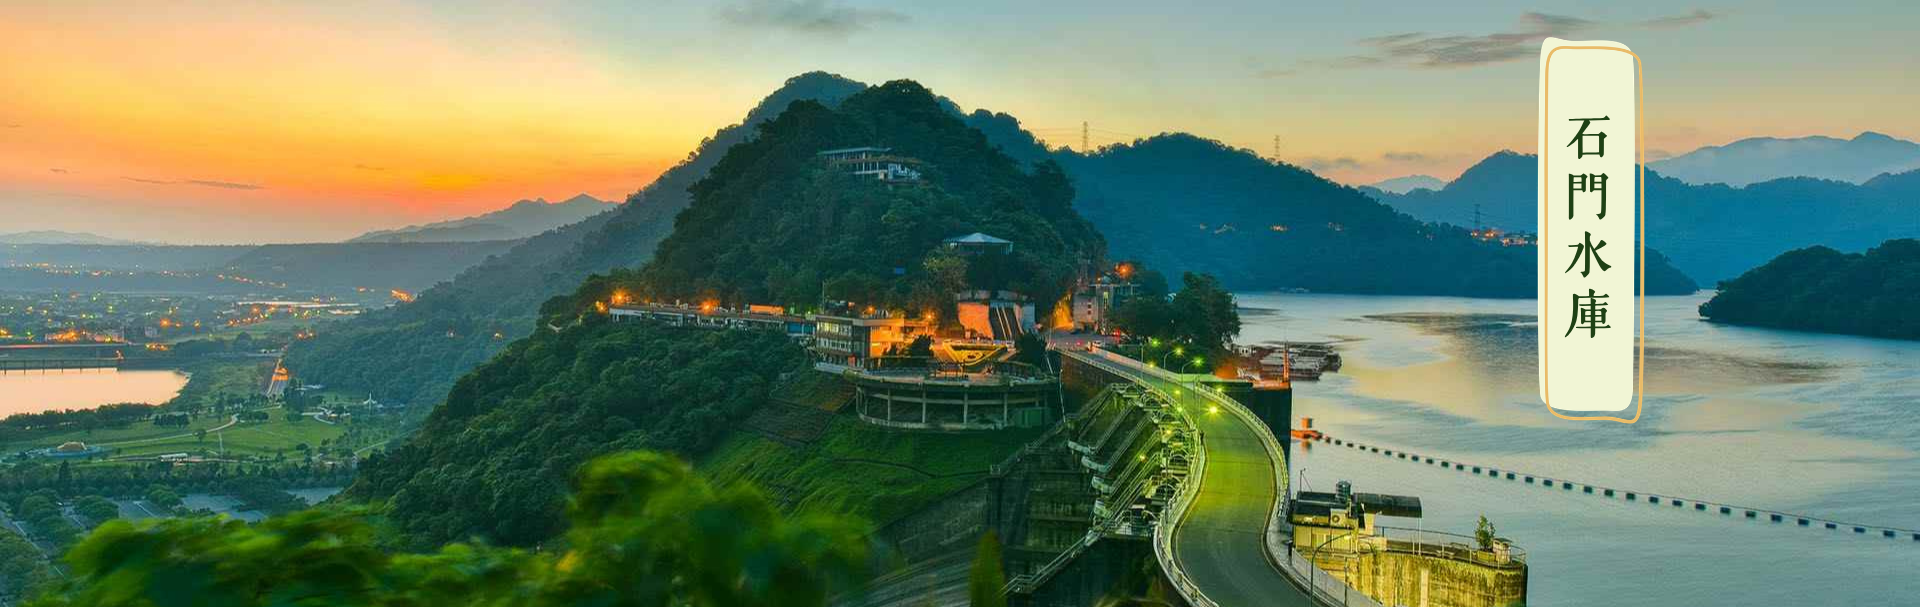
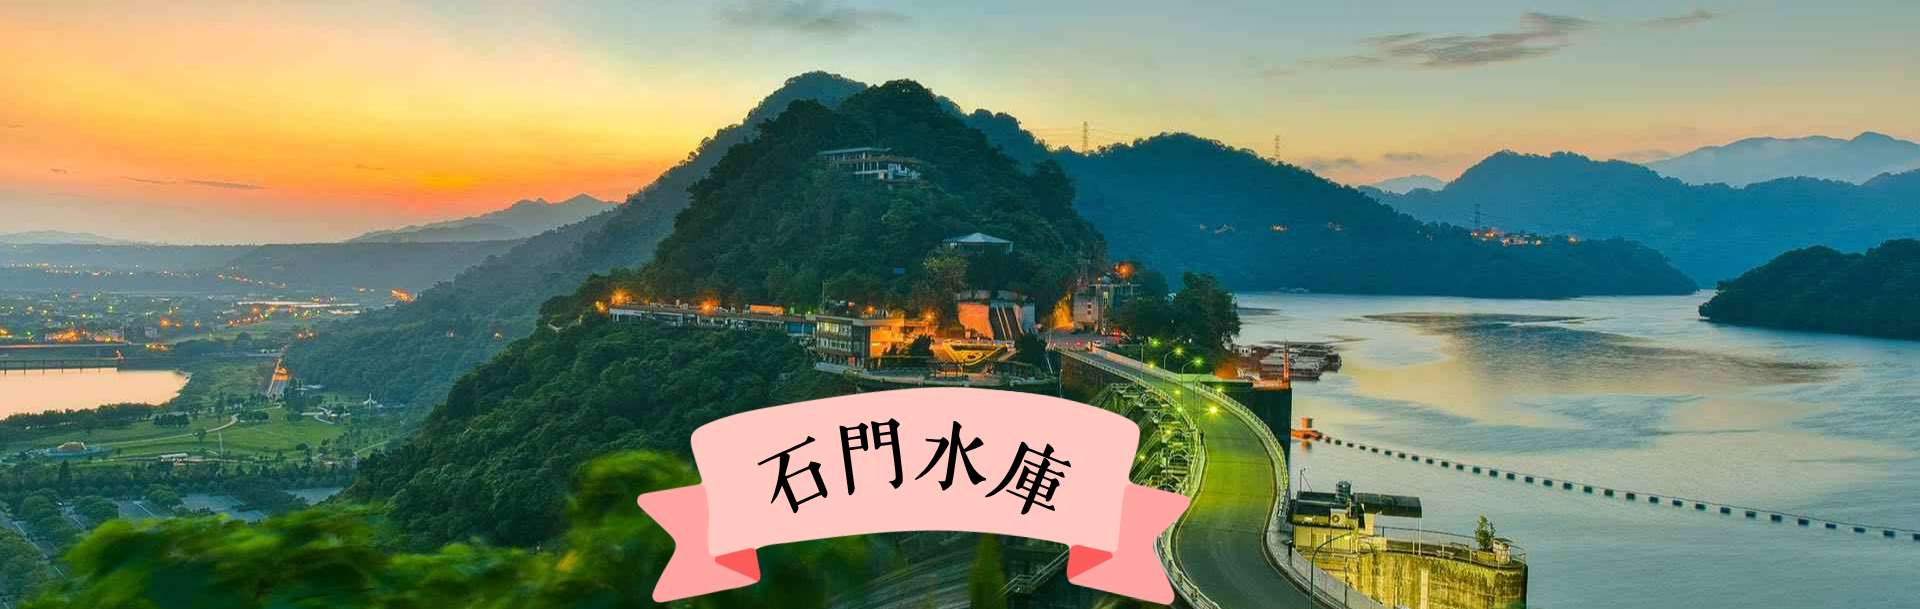
picture2

diff --git a/index.html b/index.html
@@ -199,16 +199,14 @@
                     <div class="terms-content">
                         <h4>【報名與成行規範】</h4>
                         <ul>
-                            <li>本行程為私人客製化頂級包車服務，保證 2 人即可成行。為維持服務品質，每日接待組數有限，請於預定出發日前至少 7 個工作日完成線上預訂申請。</li>
-                            <li>1-4 人將安排 7 座頂級商務車 (Toyota Alphard 等同級車款)；5-6 人將升等為 9 座豪華客車。考量長輩與孩童安全，車內皆可免費標配最高規格兒童安全座椅與基礎醫療急救箱。</li>
+                            <li>本行程為遊覽車包車服務，只要報名保證成團，為維持服務品質，每日接待組數有限，請於預定出發日前至少 10 個工作日完成線上預訂申請。</li>
                             <li>為確保旅遊平安險生效，請於預訂確認後，如實提供所有同行旅客之正確中文姓名、身分證字號與出生年月日。</li>
                         </ul>
                         
                         <h4>【集合接送與行程異動】</h4>
                         <ul>
-                            <li>專車到府接駁時間與地點，將由專屬管家於出發前 2 日以電子郵件及通訊軟體再次向您確認。</li>
-                            <li>請於指定時間提前 10 分鐘於接送地點候車。若因旅客個人因素遲到導致行程延誤或無法成行，將視為自動放棄，恕不退費。</li>
-                            <li>行程內所標示之景點順序與停留時間，將視當日交通狀況與人潮進行彈性調整。若遇景點因天候或突發狀況臨時休園，金牌管家將於徵求旅客同意後，安排同等級之替代方案。</li>
+                            <li>請於行程集合之指定時間內於接送地點候車。若因旅客個人因素遲到導致行程延誤或無法成行，將視為自動放棄，恕不退費，敬請見諒。</li>
+                            <li>行程內所標示之景點順序與停留時間，將視當日交通狀況與人潮進行彈性調整。若參訪景點時因天候不佳或是特定景點因不可抗力因素關閉等突發狀況，主辦方有權視情況安排後續事宜。</li>
                         </ul>
 
                         <h4>【取消與退費政策】</h4>
@@ -246,8 +244,8 @@
                             </div>
                         </div>
 
-                        <button type="submit" class="btn-primary" id="submit-btn">送出專屬預訂申請</button>
-                        <p class="microcopy">此階段無需付款，頂級管家將於 12 小時內與您聯繫</p>
+                        <button type="submit" class="btn-primary" id="submit-btn">送出預訂申請</button>
+                        <p class="microcopy">此階段無需付款，小幫手將於 12 小時內與您聯繫</p>
                     </form>
                     
                     <div class="price-breakdown">
@@ -356,7 +354,7 @@
             <button class="close-overlay" onclick="closeOverlay('success-overlay')"><i class="fas fa-times"></i></button>
             <div class="success-icon"><i class="fas fa-check"></i></div>
             <h3 style="margin-bottom: 16px; font-size: 22px;">申請已成功送出！</h3>
-            <p style="color: var(--text-muted); margin-bottom: 24px; font-size: 15px;">我們已為您鎖定專屬名額。請確認以下細節：</p>
+            <p style="color: var(--text-muted); margin-bottom: 24px; font-size: 15px;">我們已為您鎖定名額。請確認以下細節：</p>
             
             <div class="receipt-details">
                 <div class="receipt-row"><span>出發日期</span><strong id="receipt-date">--</strong></div>
@@ -366,7 +364,7 @@
             </div>
 
             <p style="font-size: 13px; color: var(--text-muted); margin-top: 24px; line-height: 1.5;">
-                您的專屬旅遊管家將於 12 小時內與您聯繫確認細節。<br>在此之前您無須支付任何費用。
+                您的專屬旅遊小幫手將於 12 小時內與您聯繫確認細節。<br>在此之前您無須支付任何費用。
             </p>
             <button class="btn-secondary" style="margin-top: 24px; width: 100%;" onclick="closeOverlay('success-overlay')">關閉視窗</button>
         </div>

diff --git a/style.css b/style.css
@@ -53,7 +53,15 @@ h2 { font-size: 26px; font-weight: 600; margin-bottom: 32px; letter-spacing: -0.
 .meta-info i { color: var(--brand-color); }
 .urgency-badge { background: #FFF4F4; color: #E61E4D; padding: 4px 12px; border-radius: 8px; font-size: 14px; display: flex; align-items: center; gap: 6px; }
 
-.carousel-container { position: relative; width: 100%; height: 500px; border-radius: 20px; overflow: hidden; margin-bottom: 56px; }
+.carousel-container {
+    width: 100%;
+    height: 35vh; /* 限制高度為螢幕總高度的 35% */
+    /* 若偏好固定尺寸，可將上一行改為 height: 320px; */
+    
+    object-fit: cover; /* 核心關鍵：強制圖片填滿指定高度，自動裁切上下邊緣，絕對不會變形 */
+    object-position: center; /* 讓裁切基準點保持在圖片正中央 */
+    border-radius: 12px; /* 依照你原本的設計保留圓角 */
+}
 .carousel-track { display: flex; width: 100%; height: 100%; transition: transform 0.6s cubic-bezier(0.2, 0.8, 0.2, 1); }
 .carousel-track img { min-width: 100%; height: 100%; object-fit: cover; filter: brightness(0.95); }
 .carousel-indicators { position: absolute; bottom: 20px; left: 50%; transform: translateX(-50%); display: flex; gap: 10px; }

diff --git a/script.js b/script.js
@@ -328,7 +328,7 @@ function initPricing() {
         let total = pricePerPerson * count;
         document.getElementById('calc-base').innerText = `TWD 5,800 x ${count} 位`;
         document.getElementById('calc-total').innerText = `TWD ${total.toLocaleString()}`;
-        if (count >= 4) {
+        if (count >= 2) {
             let discount = total * 0.1; total -= discount;
             document.getElementById('discount-row').style.display = 'flex';
             document.getElementById('calc-discount').innerText = `- TWD ${discount.toLocaleString()}`;